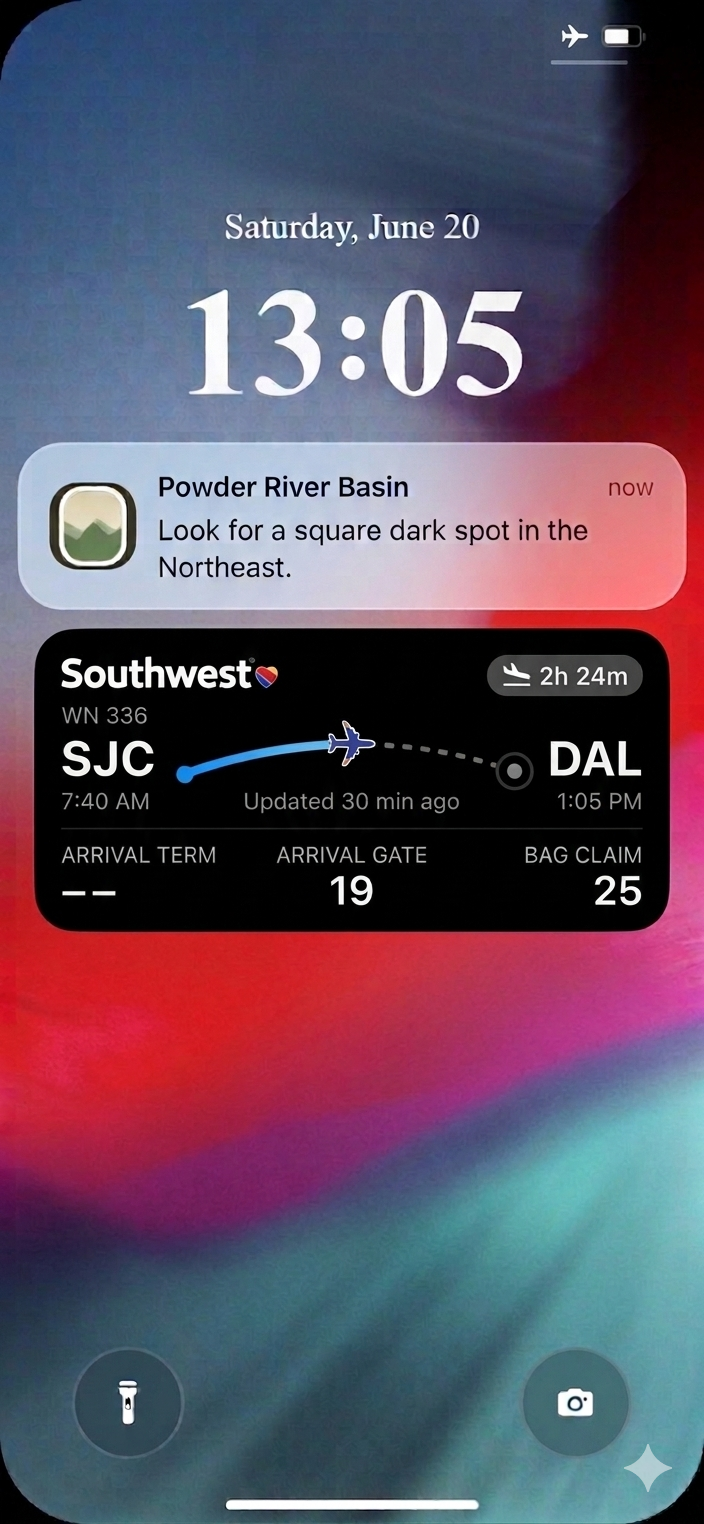
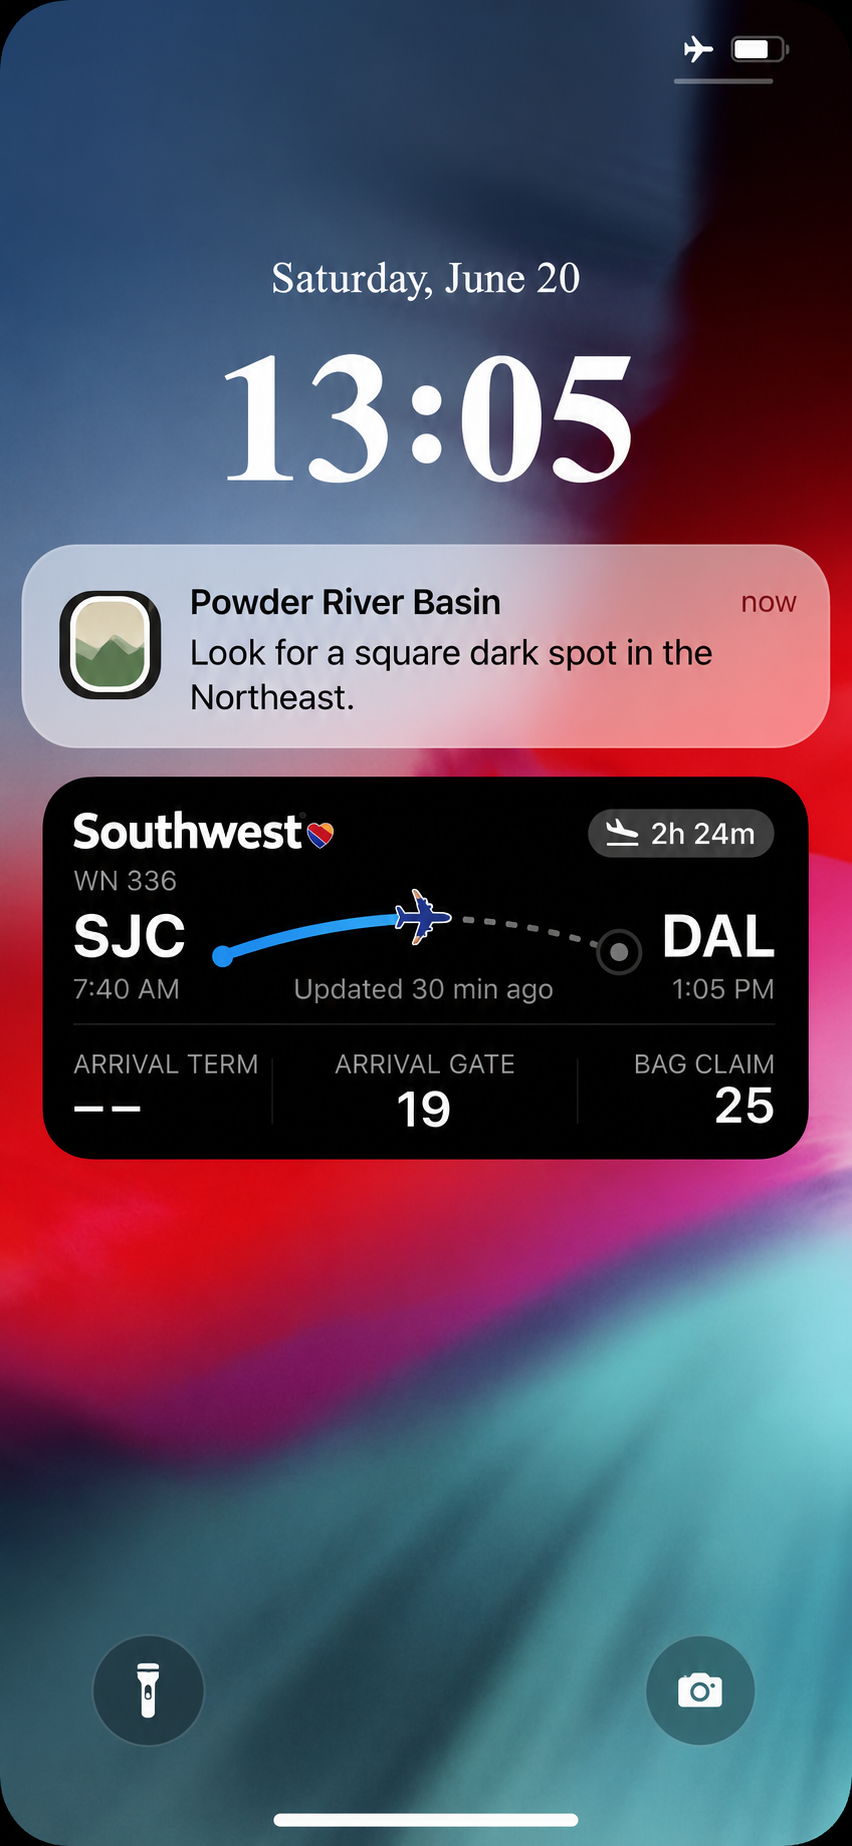
New notification mockup, Jet Black/Lime Moss/Platinum palette, remove emojis

diff --git a/index.html b/index.html
@@ -11,16 +11,17 @@
 <link href="https://fonts.googleapis.com/css2?family=Inter:wght@400;500;600&display=swap" rel="stylesheet">
 <style>
   :root {
-    --bg: #E8F0DC;
-    --surface: #D7E6C4;
-    --surface-active: #C2D9A8;
+    --bg: #EFEFEF;          /* Platinum */
+    --surface: #F6F8F0;     /* platinum with a faint lime wash */
+    --surface-active: #E7F2CC;
     --card: #ffffff;
-    --border: #BBD09F;
-    --text-primary: #283A22;
-    --text-secondary: #4C5C40;
-    --text-tertiary: #75895F;
-    --accent: #4F6B3E;
-    --accent-text: #F3F7EC;
+    --border: #DDE2D4;
+    --text-primary: #263D42;  /* Jet Black */
+    --text-secondary: #4C5F64;
+    --text-tertiary: #87938A;
+    --accent: #7FB800;       /* Lime Moss */
+    --accent-dark: #6A9A00;
+    --accent-text: #1B2A2E;  /* Jet Black, for text on lime */
     --radius-md: 8px;
     --radius-lg: 14px;
   }
@@ -28,7 +29,7 @@
   body {
     margin: 0;
     font-family: 'Inter', -apple-system, BlinkMacSystemFont, sans-serif;
-    background: linear-gradient(180deg, #DCEBC8 0%, var(--bg) 40%);
+    background: linear-gradient(180deg, #E7EFD8 0%, var(--bg) 32%);
     background-attachment: fixed;
     color: var(--text-primary);
     line-height: 1.6;
@@ -97,12 +98,12 @@
     background: var(--accent);
     color: var(--accent-text);
     font-size: 15px;
-    font-weight: 500;
+    font-weight: 600;
     font-family: inherit;
     cursor: pointer;
     white-space: nowrap;
   }
-  button.btn-primary:hover { opacity: 0.9; }
+  button.btn-primary:hover { background: var(--accent-dark); }
   button.btn-primary:disabled { opacity: 0.6; cursor: default; }
   .form-note {
     font-size: 13px;
@@ -122,7 +123,19 @@
     padding: 1.25rem 1rem;
     text-align: center;
   }
-  .step-card .emoji { font-size: 22px; }
+  .step-card .step-num {
+    width: 30px;
+    height: 30px;
+    margin: 0 auto;
+    border-radius: 50%;
+    background: var(--accent);
+    color: var(--accent-text);
+    font-size: 15px;
+    font-weight: 600;
+    display: flex;
+    align-items: center;
+    justify-content: center;
+  }
   .step-card p.title {
     font-size: 14px;
     font-weight: 500;
@@ -180,7 +193,6 @@
     align-items: flex-start;
     gap: 14px;
   }
-  .panel .panel-icon { font-size: 20px; margin-top: 2px; flex-shrink: 0; }
   .panel p.title {
     font-size: 14px;
     font-weight: 500;
@@ -229,17 +241,17 @@
 
   <div class="steps">
     <div class="step-card">
-      <div class="emoji">📷</div>
+      <div class="step-num">1</div>
       <p class="title">Scan your pass</p>
       <p class="desc">Point your camera at your boarding pass, paper or digital.</p>
     </div>
     <div class="step-card">
-      <div class="emoji">🗺️</div>
+      <div class="step-num">2</div>
       <p class="title">Get your timeline</p>
       <p class="desc">Built before takeoff, while you've still got signal.</p>
     </div>
     <div class="step-card">
-      <div class="emoji">✈️</div>
+      <div class="step-num">3</div>
       <p class="title">Follow along, airborne</p>
       <p class="desc">Works the whole flight. Zero connectivity required.</p>
     </div>
@@ -252,7 +264,7 @@
       <figcaption>Scan your pass</figcaption>
     </figure>
     <figure>
-      <img src="images/02-notification.png" alt="Lockscreen notification telling you to look left for Mount Fuji">
+      <img src="images/02-notification.png" alt="Lockscreen notification: look for a square dark spot in the Northeast over the Powder River Basin">
       <figcaption>Look up, on cue</figcaption>
     </figure>
     <figure>
@@ -266,7 +278,6 @@
   </div>
 
   <div class="panel">
-    <div class="panel-icon">🌿</div>
     <div>
       <p class="title">Built for looking up, not down</p>
       <p class="desc">Flying is one of the rare stretches of time with nowhere to be and nothing demanding your attention. A short glance, then the phone goes back in the pocket. Not another screen to stare at for three hours.</p>
@@ -274,7 +285,6 @@
   </div>
 
   <div class="panel" style="margin-bottom: 2.5rem;">
-    <div class="panel-icon">📡</div>
     <div>
       <p class="title">Why offline matters</p>
       <p class="desc">In-flight WiFi is slow, spotty, or costs extra, when it works at all. Everything here is ready before you board, so the plane's connection is never part of the plan.</p>